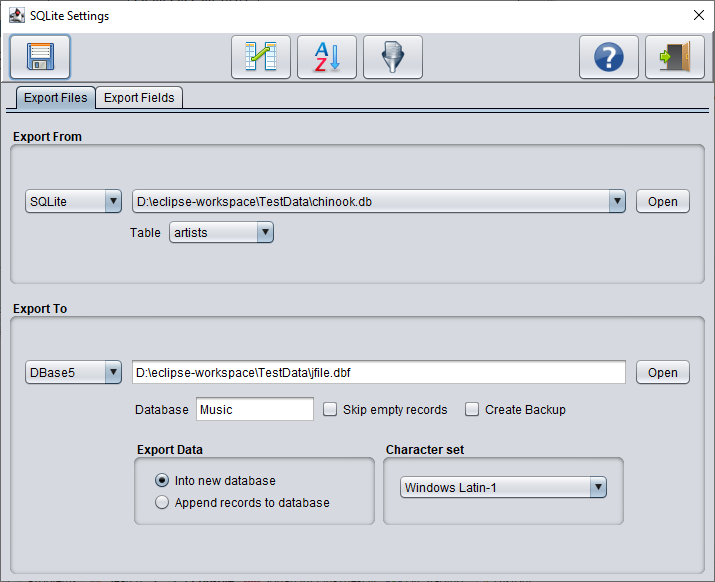
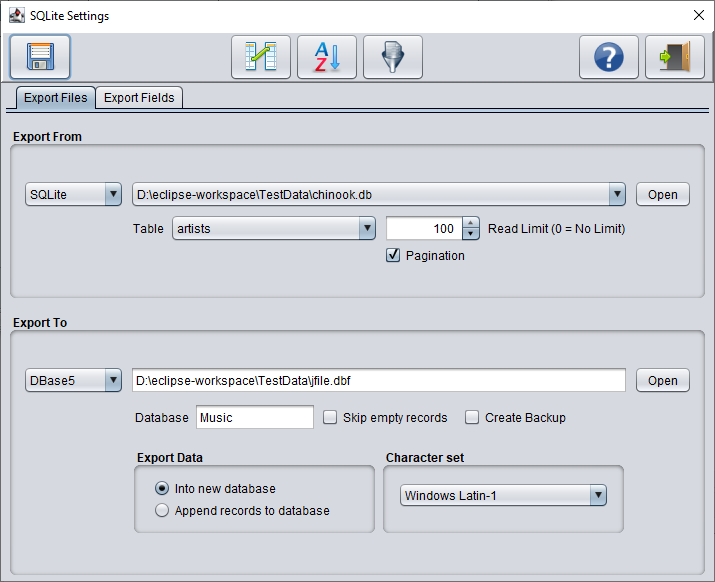
Pagination

diff --git a/fnpdbc-commons/src/main/resources/help/exportfiles_db.html b/fnpdbc-commons/src/main/resources/help/exportfiles_db.html
@@ -35,8 +35,8 @@
 </table>
 	
 <h2>Export From</h2>
-<img src="../images/ExportFrom.png">
-<h3>Default Settings</h3>
+<img src="../images/StandardImport.png">
+<h3>Default Fields</h3>
 <ul>
 <li><b>Combobox (1)</b>
 </li>
@@ -47,19 +47,53 @@ In the first combobox you can select the format of the "Export From" file (Calc,
 </li>
 In the second combobox you can select a file or host database from the list of previously defined
  "Export From" files of the same kind.<br>
-<br>
+ <br>
 <li><b>Open</b>
 </li>
 You can use the Open button to select the file to be exported.<br>
-<br>
-<li><b>Table / Worksheet</b>
-</li>
-If your database or spreadsheet has more than one table or worksheet then you can select in
- this comboxbox the table/worksheet to export.<br>
+ <br>
 </ul>
+
+<h2>Export From Calc or Excel</h2>
+<img src="../images/SpreadsheetExport.png">
+<h3>Additional Field</h3>
+<ul>
+<li><b>Worksheet</b>
+</li>
+If your spreadsheet has more than one worksheet then you can select in this comboxbox the worksheet to export.<br>
 <br>
+</ul>
+
+<h2>Export From SQL database (SqLite, ProgresSQL, MariaDB etc.)</h2>
+<img src="../images/SqlDatabaseExport.png">
+<h3>Additional Fields</h3>
+<ul>
+<li><b>Table</b>
+</li>
+If your database has more than one table then you can select in this comboxbox the table to export.<br>
+<br>
+<li><b>Read Limit</b>
+</li>
+The Read Limit allows you to constrain the number of rows returned by a query. A limit of 0 returns all rows.<br>
+For example, a query may return one million rows. However, if you just need the first 10 rows then you can set<br>
+the Read Limit to 10.<br> 
+<br>
+<li><b>Pagination</b>
+</li>
+Returns all records in a query, but reading the rows from the table is done in blocks of "Read Limit" rows.<br>
+For example, if the Read limit is set to 10 and the table contains 30 records to read then DBConvert sends three<br>
+queries to the database. First query returns row 1 to 10; the second rows 11 to 20 and the third query row 21 to 30.<br>
+<br>
+<p> 
+<b>Important:</b> In SQL Server we can use Pagination only, if the query is sorted. If no sort fields are defined then<br>
+you'll see the following warning message.<br>
+<img src="../images/PaginationWarning.png">
+ </p> 
+</ul>
+
 <h2>Export From TextFile</h2>
 <img src="../images/ExportFromTextfile.gif">
+<h3>Additional Fields</h3>
 <ul>
 <li><b>Export Format</b>
 </li>The export format specifies the the textfile format you are exporting from.

diff --git a/fnpdbc-dbconvert/src/main/java/dbengine/SqlDB.java b/fnpdbc-dbconvert/src/main/java/dbengine/SqlDB.java
@@ -61,7 +61,10 @@ public abstract class SqlDB extends GeneralDB implements IConvert {
 	private ResultSet dbResultSet;
 	private Session session;
 	protected int assignedPort;
-	private String sqlQuery;
+	protected String sqlQuery;
+
+	protected int totalRecords;
+	protected int offset;
 
 	private Set<String> linkedTables = new HashSet<>();
 
@@ -470,9 +473,18 @@ public abstract class SqlDB extends GeneralDB implements IConvert {
 		return aTables.get(table);
 	}
 
-	public void createQueryStatement() throws SQLException {
+	public void createQueryStatement(boolean isNewPage) throws SQLException {
 		dbStatement = connection.createStatement();
-		dbResultSet = dbStatement.executeQuery(sqlQuery);
+		dbResultSet = dbStatement.executeQuery(getPaginationSqlString(isNewPage));
+	}
+
+	protected String getPaginationSqlString(boolean isNewPage) {
+		StringBuilder b = new StringBuilder(sqlQuery);
+		if (myPref.getSqlSelectLimit() > 0) {
+			b.append("\nOFFSET ").append(offset).append(" ROWS ").append("\nFETCH NEXT ")
+					.append(myPref.getSqlSelectLimit()).append(" ROWS ONLY");
+		}
+		return b.toString();
 	}
 
 	@Override
@@ -481,6 +493,7 @@ public abstract class SqlDB extends GeneralDB implements IConvert {
 		int index = 1;
 
 		if (dbResultSet.next()) {
+			offset++;
 			for (FieldDefinition field : dbInfoToRead) {
 				try {
 					Object obj = getFieldValue(field.getSQLType(), index++, dbResultSet);
@@ -490,16 +503,17 @@ public abstract class SqlDB extends GeneralDB implements IConvert {
 							"Unable to read database field '" + field.getFieldName() + "', due to\n" + e.toString());
 				}
 			}
+		} else if (myPref.isPagination() && offset < totalRecords) {
+			dbResultSet.close();
+			dbStatement.close();
+			createQueryStatement(true);
+			return readRecord();
 		}
 		return result;
 	}
 
-	private String getSqlQuery() {
+	private void getSqlQuery() {
 		StringBuilder sql = new StringBuilder("SELECT ");
-		if (myPref.getSqlSelectLimit() > 0 && myImportFile == ExportFile.SQLSERVER) {
-			sql.append("TOP ").append(myPref.getSqlSelectLimit()).append(" ");
-		}
-
 		SqlTable table = aTables.get(myPref.getTableName());
 
 		dbInfoToRead.forEach(field -> {
@@ -521,11 +535,7 @@ public abstract class SqlDB extends GeneralDB implements IConvert {
 		sql.append(getWhereStatement());
 		sql.append(getOrderBy());
 
-		if (myPref.getSqlSelectLimit() > 0 && myImportFile != ExportFile.SQLSERVER) {
-			sql.append("\nLIMIT ").append(myPref.getSqlSelectLimit());
-		}
-
-		return sql.toString();
+		sqlQuery = sql.toString();
 	}
 
 	private void getJoinStatement(StringBuilder buf, SqlTable table) {
@@ -718,9 +728,10 @@ public abstract class SqlDB extends GeneralDB implements IConvert {
 		}
 
 		// Build Query
-		sqlQuery = getSqlQuery();
+		getSqlQuery();
+		offset = 0;
+		totalRecords = 0;
 
-		// try {
 		StringBuilder sql = new StringBuilder("SELECT COUNT(*)");
 		if (myPref.isSortFieldDefined()) {
 			// Remove Order statement
@@ -733,12 +744,13 @@ public abstract class SqlDB extends GeneralDB implements IConvert {
 				ResultSet rs = statement.executeQuery(sql.toString())) {
 			while (rs.next()) {
 				Object obj = getFieldValue(rs.getMetaData().getColumnType(1), 1, rs);
-				int total = ((Number) obj).intValue();
-				return myPref.getSqlSelectLimit() == 0 ? total : Math.min(total, myPref.getSqlSelectLimit());
+				totalRecords = ((Number) obj).intValue();
+				totalRecords = myPref.getSqlSelectLimit() == 0 || myPref.isPagination() ? totalRecords
+						: Math.min(totalRecords, myPref.getSqlSelectLimit());
 			}
 		}
 
-		return 0;
+		return totalRecords;
 	}
 
 	private void getLinkedTables(SqlTable table, FieldDefinition field) {

diff --git a/fnpdbc-dbconvert/src/main/java/dbconvert/dialog/ConfigSoft.java b/fnpdbc-dbconvert/src/main/java/dbconvert/dialog/ConfigSoft.java
@@ -279,10 +279,10 @@ public class ConfigSoft extends BasicDialog implements IConfigSoft {
 		bTablesWorksheets.setToolTipText(GUIFactory.getToolTip(myImportFile.isSpreadSheet() ? WORKSHEET : TABLE));
 
 		lSqlLimit = GUIFactory.getJLabel("sqlLimit");
-		sModel = new SpinnerNumberModel(100, 0, 10000, 100);
+		sModel = new SpinnerNumberModel(pdaSettings.getSqlSelectLimit(), 0, 10000, 100);
 		spSqlLimit = new JSpinner(sModel);
-		spSqlLimit.addChangeListener(e -> ckPagination.setEnabled(sModel.getNumber().intValue() > 99));
-		spSqlLimit.setValue(Integer.valueOf(pdaSettings.getSqlSelectLimit()));
+		spSqlLimit.addChangeListener(e -> ckPagination.setEnabled(sModel.getNumber().intValue() > 0));
+		ckPagination.setEnabled(pdaSettings.getSqlSelectLimit() > 0);
 
 		result.add(lTablesWorkSheets, c.gridCell(0, 0, 0, 0));
 		result.add(bTablesWorksheets, c.gridCell(1, 0, 2, 0));
@@ -550,6 +550,13 @@ public class ConfigSoft extends BasicDialog implements IConfigSoft {
 		filterDataMap.getOrDefault(myView, new FilterData()).saveProfile(pdaSettings);
 		sortDataMap.getOrDefault(myView, new SortData()).saveProfile(pdaSettings);
 		relationDataMap.getOrDefault(myView, new RelationData()).saveProfile(pdaSettings);
+
+		// SQL Server requires Pagination with Sort
+		if (myImportFile == ExportFile.SQLSERVER && pdaSettings.getSqlSelectLimit() > 0 && pdaSettings.isPagination()
+				&& !pdaSettings.isSortFieldDefined()) {
+			General.showMessage(this, GUIFactory.getText("paginationWarning"), GUIFactory.getTitle("paginationWarning"),
+					false);
+		}
 
 		dialog.updateProfile(isNewProfile ? Action.ADD : Action.EDIT);
 	}

diff --git a/fnpdbc-dbconvert/src/main/java/dbengine/export/SQLServer.java b/fnpdbc-dbconvert/src/main/java/dbengine/export/SQLServer.java
@@ -55,4 +55,20 @@ public class SQLServer extends SqlDB {
 		}
 	}
 
+	@Override
+	protected String getPaginationSqlString(boolean isNewPage) {
+		if (myPref.getSqlSelectLimit() > 0 && myPref.isSortFieldDefined()) {
+			return super.getPaginationSqlString(isNewPage);
+		}
+
+		// Without Sorting we cannot use pagination, we therefore fall back on a
+		// SELECT TOP nnn statement to get the first max read number of records
+		totalRecords = Math.min(totalRecords, myPref.getSqlSelectLimit());
+		StringBuilder b = new StringBuilder(sqlQuery);
+		if (myPref.getSqlSelectLimit() > 0) {
+			b.insert(7, "TOP " + totalRecords + " ");
+		}
+		return b.toString();
+	}
+
 }

diff --git a/fnpdbc-dbconvert/src/main/java/dbengine/export/SQLite.java b/fnpdbc-dbconvert/src/main/java/dbengine/export/SQLite.java
@@ -57,4 +57,17 @@ public class SQLite extends SqlDB implements IConvert {
 			}
 		}
 	}
+
+	@Override
+	protected String getPaginationSqlString(boolean isNewPage) {
+		StringBuilder b = new StringBuilder(sqlQuery);
+		if (myPref.getSqlSelectLimit() > 0) {
+			b.append("\nLIMIT ").append(myPref.getSqlSelectLimit());
+			if (isNewPage) {
+				b.append("\nOFFSET ").append(offset);
+			}
+		}
+		return b.toString();
+	}
+
 }

diff --git a/fnpdbc-dbconvert/src/main/java/dbengine/export/Paradox.java b/fnpdbc-dbconvert/src/main/java/dbengine/export/Paradox.java
@@ -38,4 +38,15 @@ public class Paradox extends SqlDB {
 		return "\"" + value + "\"";
 	}
 
+	@Override
+	protected String getPaginationSqlString(boolean isNewPage) {
+		StringBuilder b = new StringBuilder(sqlQuery);
+		if (myPref.getSqlSelectLimit() > 0) {
+			b.append("\nLIMIT ").append(myPref.getSqlSelectLimit());
+			if (isNewPage) {
+				b.append("\nOFFSET ").append(offset);
+			}
+		}
+		return b.toString();
+	}
 }

diff --git a/fnpdbc-dbconvert/src/main/java/dbconvert/software/XConverter.java b/fnpdbc-dbconvert/src/main/java/dbconvert/software/XConverter.java
@@ -294,7 +294,7 @@ public class XConverter extends BasicSoft implements IDatabaseFactory {
 		}
 
 		if (myImportFile.isSqlDatabase()) {
-			((SqlDB) dbIn).createQueryStatement();
+			((SqlDB) dbIn).createQueryStatement(false);
 		}
 
 		// Write all records into the table model
